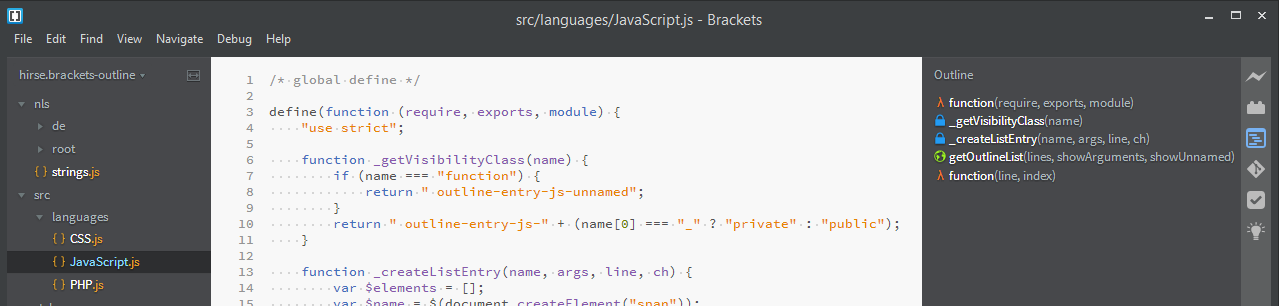
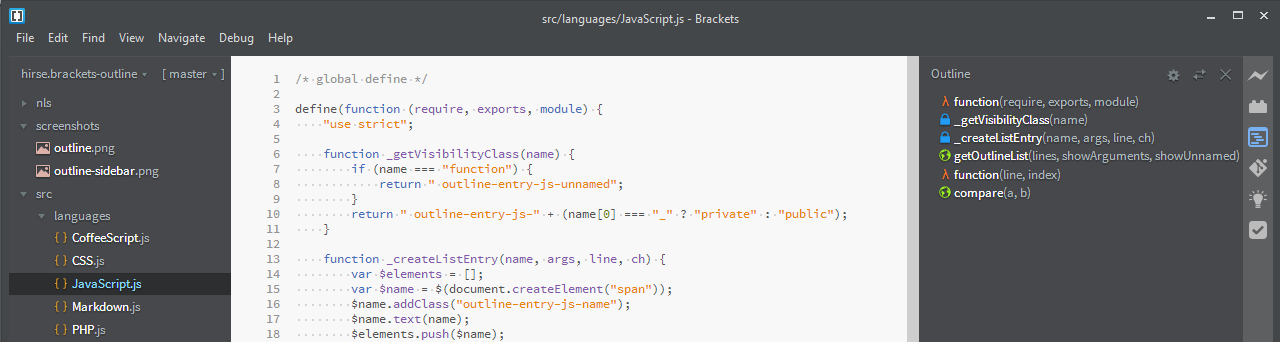
v0.4.0 - XML Support

diff --git a/src/languages/XML.js b/src/languages/XML.js
@@ -1,0 +1,83 @@
+/* global define, brackets */
+
+define(function (require, exports, module) {
+    "use strict";
+
+    var Editor = brackets.getModule("editor/Editor").Editor;
+
+    function _createListEntry(name, type, args, indent) {
+        var $elements = [];
+        var $name = $(document.createElement("span"));
+        $name.addClass("outline-entry-xml-name");
+        $name.text(name);
+        if (indent) {
+            $name.addClass("outline-entry-xml-indent");
+            var interpunct = "";
+            for (var i = 0; i < indent; i++) {
+                interpunct += "·";
+            }
+            $name.attr("data-indent", interpunct);
+        }
+        $elements.push($name);
+        if (type && args) {
+            var typechar = type == "id" ? "#" : ".";
+            var $arguments = $(document.createElement("span"));
+            $arguments.addClass("outline-entry-xml-" + type);
+            $arguments.text(" " + typechar + args);
+            $elements.push($arguments);
+        }
+        return {
+            name: name,
+            classes: "outline-entry-xml",
+            $html: $elements
+        };
+    }
+
+    function _getIndentationLevel(whitespace) {
+        if (whitespace === undefined) {
+            return 0;
+        }
+        var indentSize = Editor.getUseTabChar() ? Editor.getTabSize() : Editor.getSpaceUnits();
+        var tmpSpaces = "";
+        for (var i = 0; i < indentSize; i++) {
+            tmpSpaces += " ";
+        }
+        whitespace.replace(/\t/, tmpSpaces);
+        return (whitespace.length / indentSize) | 0;
+    }
+
+    /**
+     * Create the entry list of functions language dependent.
+     * @param   {Array}   lines         Array that contains the lines of text.
+     * @param   {Boolean} showArguments args Preference.
+     * @returns {Array}   List of outline entries.
+     */
+    function getOutlineList(lines, showArguments) {
+        var regex;
+        if (showArguments) {
+            regex = /(\s*)<(\w+)[ (>)](.*(id|class)=[""]([\w- ]+)[""])?/g;
+        } else {
+            regex = /(\s*)<(\w+)[ (>)]/g;
+        }
+        var result = [];
+        lines.forEach(function (line, index) {
+            var match = regex.exec(line);
+            while (match !== null) {
+                var whitespace = match[1];
+                var name = match[2].trim();
+                var type = (match[4] || "").trim();
+                var args = (match[5] || "").trim();
+                var entry = _createListEntry(name, type, args, _getIndentationLevel(whitespace));
+                entry.line = index;
+                entry.ch = line.length;
+                result.push(entry);
+                match = regex.exec(line);
+            }
+        });
+        return result;
+    }
+
+    module.exports = {
+        getOutlineList: getOutlineList
+    };
+});

diff --git a/main.js b/main.js
@@ -28,6 +28,9 @@ define(function (require, exports, module) {
         LESS:           require("src/languages/CSS"),
         PHP:            require("src/languages/PHP"),
         Markdown:       require("src/languages/Markdown"),
+        XML:            require("src/languages/XML"),
+        HTML:           require("src/languages/XML"),
+        SVG:            require("src/languages/XML")
     };
 
     function getOutline() {
@@ -69,7 +72,7 @@ define(function (require, exports, module) {
         var lines = doc.getText(false).split("\n");
         var list = lang.getOutlineList(lines, prefs.get("args"), prefs.get("unnamed"));
 
-        if (prefs.get("sort")) {
+        if (prefs.get("sort") && lang.compare) {
             list.sort(lang.compare);
         }
 

diff --git a/styles/styles.css b/styles/styles.css
@@ -238,3 +238,14 @@
 .outline-entry-md-6:before {
     content: "######";
 }
+
+.outline-entry-xml-id,
+.outline-entry-xml-class {
+    color: #adb9bd;
+}
+
+.outline-entry-xml-indent:before {
+    color: #adb9bd;
+    content: attr(data-indent);
+    font-family: Ionicons;
+}

diff --git a/README.md b/README.md
@@ -1,6 +1,6 @@
 Brackets Outline List
 ==============
-Brackets Extension to display a list of the functions or definitions in the currently opened document. Settings for parameters and anonymous functions. Works with JavaScript, CoffeeScript, CSS, SCSS, LESS, Markdown and PHP.
+Brackets Extension to display a list of the functions or definitions in the currently opened document. Settings for parameters and anonymous functions. Works with JavaScript, CoffeeScript, CSS, SCSS, LESS, XML, HTML, SVG, Markdown and PHP.
 
 Thanks to [crabcode](https://github.com/crabcode) for his groundwork on this project. Original project repo here: [Brackets-Outline](https://github.com/crabcode/brackets-outline)
 
@@ -10,7 +10,7 @@ Screenshots
 *Outline for JavaScript*
 
 ![CSS Outline](https://raw.githubusercontent.com/Hirse/brackets-outline-list/master/screenshots/outline-sidebar.png)
-*Outline for CSS in the Sidebar*
+*Outline for CSS, HTML and Markdown in the Sidebar*
 
 Features
 -------
@@ -25,6 +25,7 @@ Features
     * JavaScript
     * CoffeeScript
     * CSS, SCSS, LESS
+    * XML, HTML, SVG (hierarchical based on indentation)
     * Markdown (atx only)
     * PHP
 

diff --git a/CHANGELOG.md b/CHANGELOG.md
@@ -1,10 +1,19 @@
 # Change Log
 All notable changes to this project will be documented in this file.
 
+## 0.4.0 - 2014-12-11
+### Changed
+- New Settings UI (Imitating Brackets Working Set Design)
+
+### Added
+- XML, HTML and SVG Support
+
+
 ## 0.3.1 - 2014-12-05
 ### Changed
 - Better detection for PHP
 - Visibility Icons for PHP
+
 
 ## 0.3.0 - 2014-12-04
 ### Added
@@ -13,13 +22,16 @@ All notable changes to this project will be documented in this file.
 ### Changed
 - Auto-hide Outline Pane for unsupported languages (see #10)
 
+
 ## 0.2.1 - 2014-12-02
 ### Fixed
 - Detaching global Event Handlers makes other Extensions unusable (see #3, #4)
 
+
 ## 0.2.0 - 2014-12-01
 ### Added
 - CofeeScript Support
+
 
 ## 0.1.1 - 2014-11-30
 ### Added
